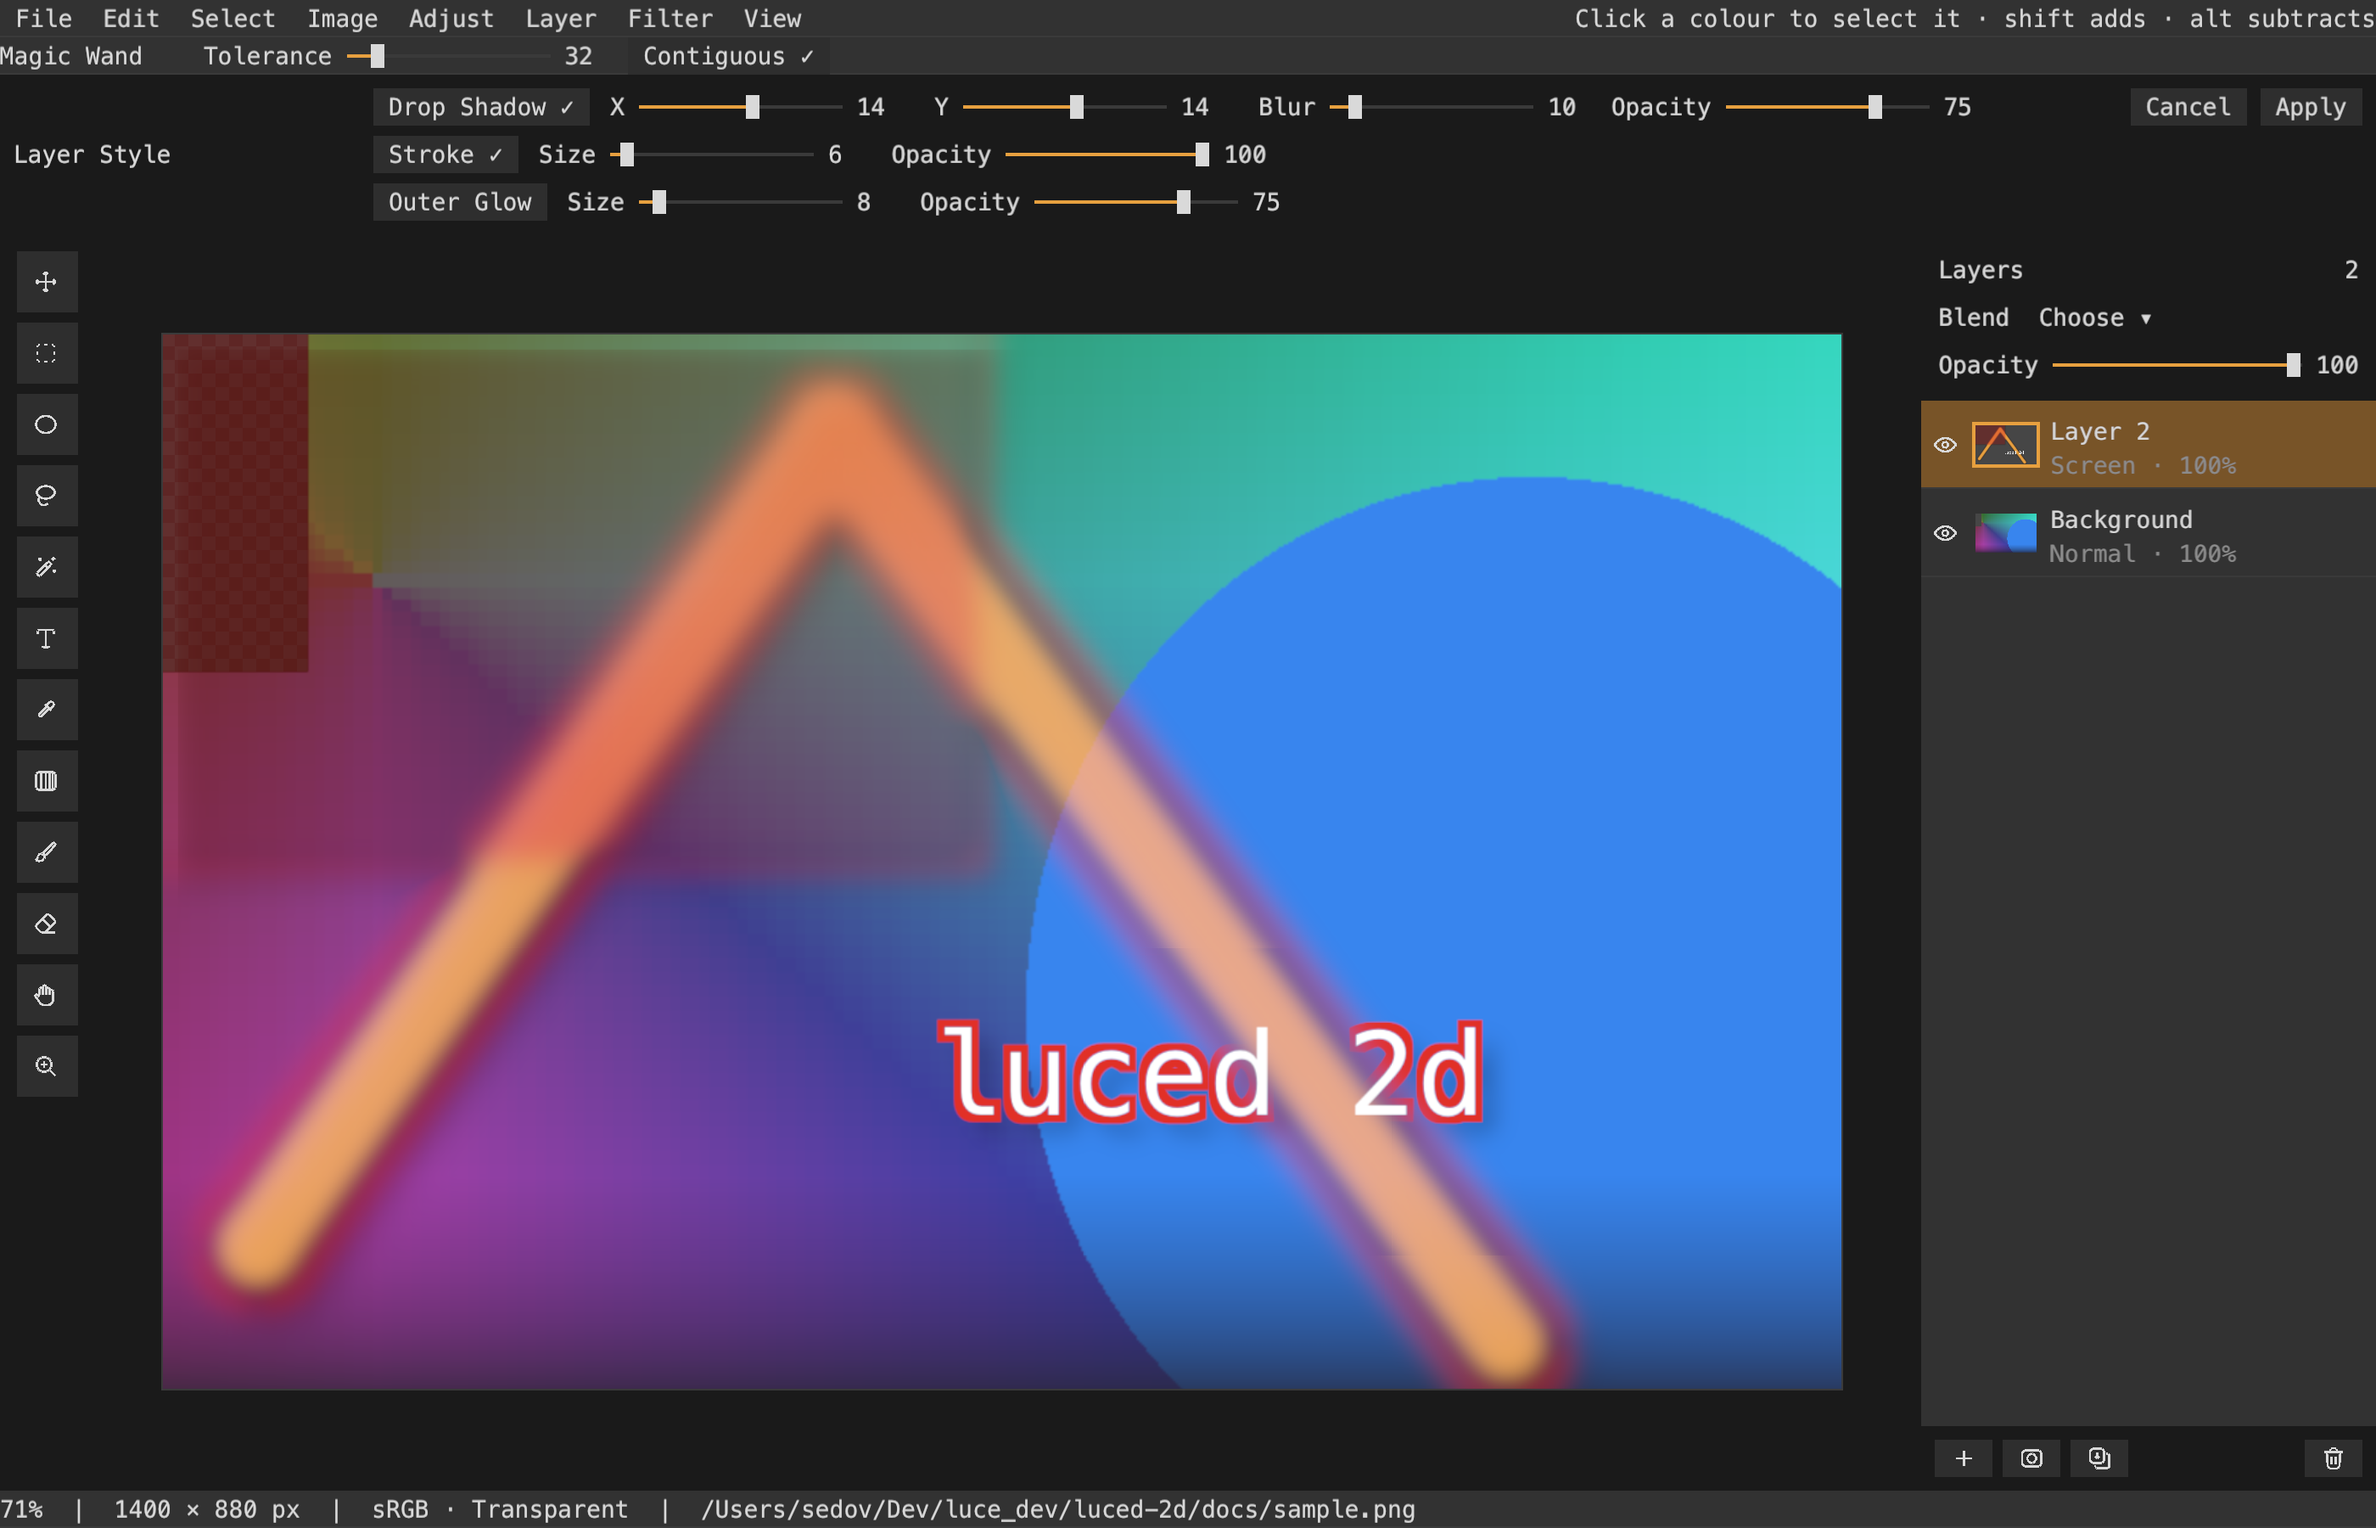
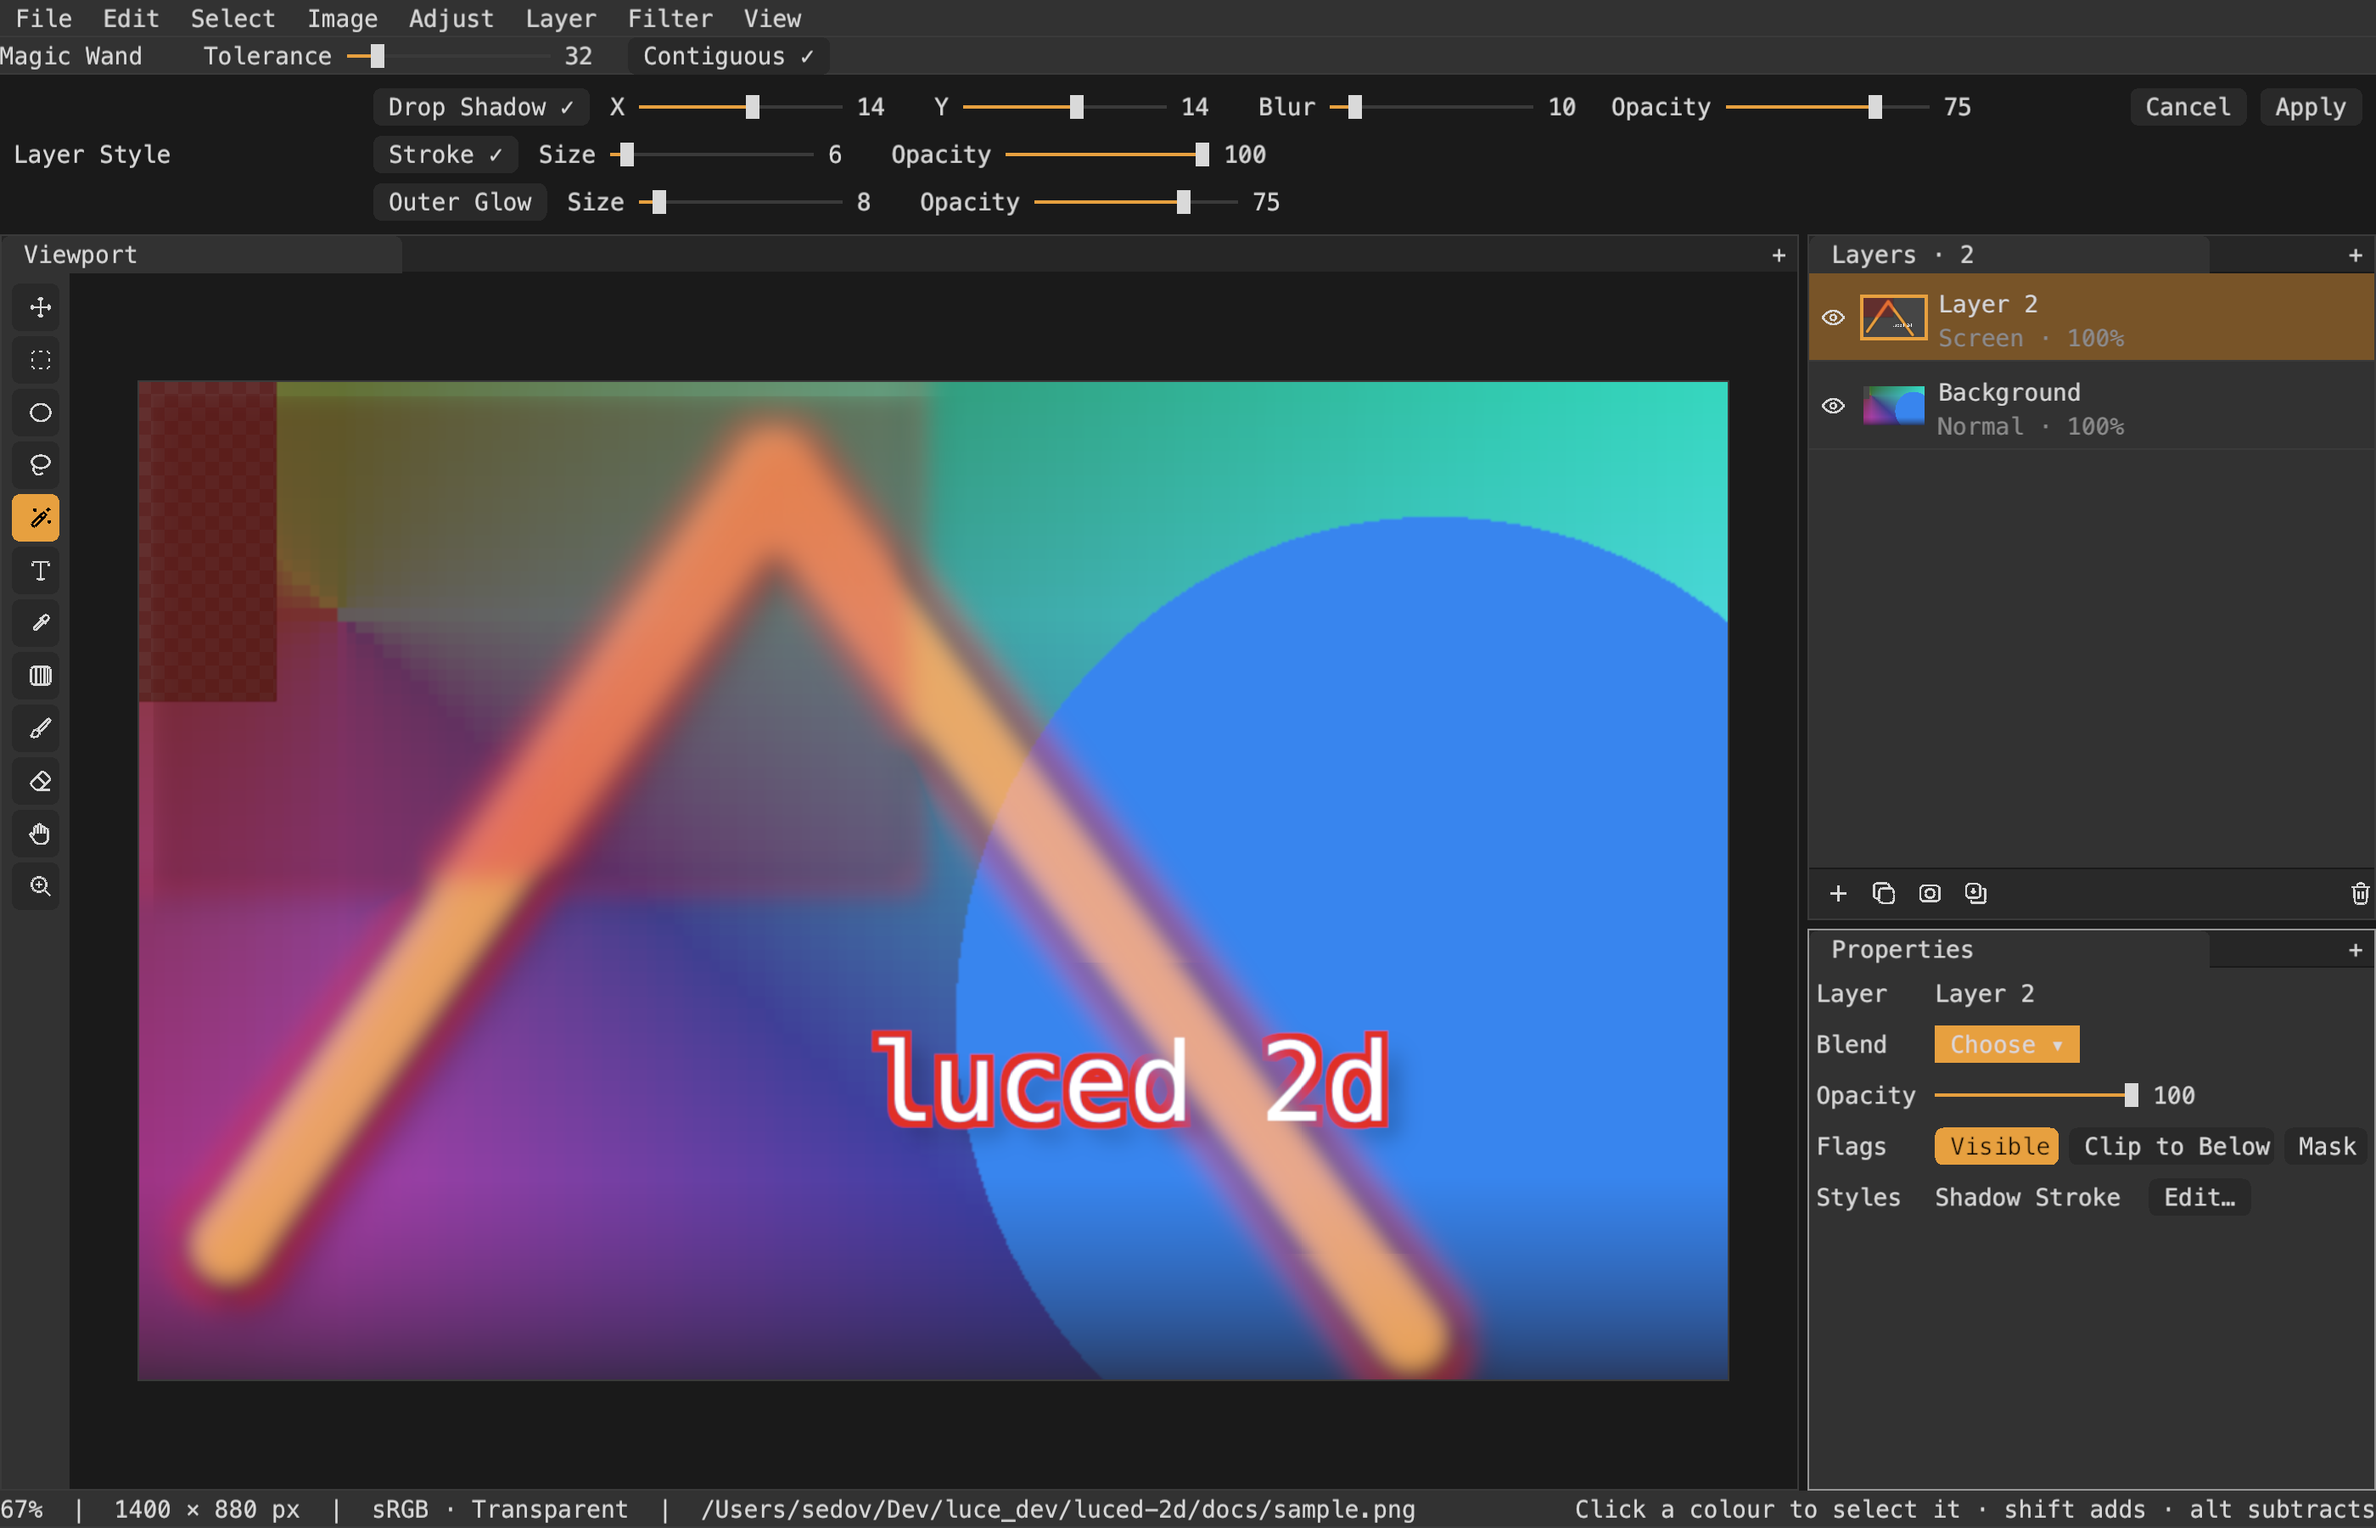
Panes after eleusis: Viewport, Layers with a bottom shelf, Properties; rounded buttons, selected tool in the accent, hints in the status bar
Claude-Session: https://claude.ai/code/session_01KSvf935cywg8wGYHPcyZf9

diff --git a/docs/ELEUSIS_UI.md b/docs/ELEUSIS_UI.md
@@ -1,0 +1,162 @@
+# eleusis UI catalogue
+
+How eleusis-frameworks (`/Users/sedov/Dev/eleusis-frameworks`, Zig) and
+eleusis-layout.2 (`/Users/sedov/Dev/eleusis-layout.2`) build their UI, as read
+from the sources on 2026-09-22, so luce-ui and luced-2d can reproduce it. All
+numbers are UI units (points); double at 2×. Colours are the authored sRGB
+values (the app rotates them to Display-P3 and blends linear-premultiplied).
+
+## Theme
+
+Dark palette (`ui/theme.zig:154-214`), with eleusis-layout.2's overrides
+(`app/theme.zig:50-85`) applied:
+
+| Role | sRGB | Use |
+|---|---|---|
+| window = surface | 50,50,50 `#323232` | chrome and panes alike ("a layout tool's panes ARE the chrome") |
+| tab_strip | 38,38,38 `#262626` | the recess a tab strip sits in; property-pane section headings |
+| backdrop | 26,26,26 `#1A1A1A` | gaps between panes, divider gutters, every structural 1 px rule |
+| surface_raised | 46,46,46 `#2E2E2E` | popover, menu, tooltip-like panels, raised button, table header |
+| surface_sunken | 41,41,41 `#292929` | field well, slider groove, sunken (default) button, **pane bottom toolbar** |
+| border | 58,58,58 `#3A3A3A` | ordinary border; property-row separator |
+| border_focused | 150,150,150 `#969696` | focused border, drawn at 2× width |
+| separator | white α0.10 | hairline between rows / menu sections |
+| text | 217 `#D9D9D9` | primary text |
+| text_muted | 140 `#8C8C8C` | secondary, placeholder, disabled labels, toolbar icons at rest |
+| accent = selection | 231,160,63 `#E7A03F` | one orange for both |
+| text_on_accent | black | 9.5:1 on the orange |
+| selection_inactive | 120,84,40 `#785428` | selected row in an unfocused pane |
+| hover / pressed | white α0.04 / α0.12 | washes composited over the resting fill; no fade |
+| scrim / shadow | black α0.9 / α0.85 | modals |
+| danger / warning | 232,84,74 / 232,172,74 | |
+| scrollbar | 150 α0.55 | overlay thumb |
+| row_stripe | white α0.006 | odd rows |
+
+Metrics (`ui/theme.zig:267-312`): row_height 22, pad 8, gap 6,
+corner_radius 6 (surfaces), corner_radius_small 5 (every control: buttons,
+chips, fields, tabs, row highlights, menu rows, checkboxes), border_width 1
+(2 when focused), text_size 13, input_height 26, icon_size 16, scroll_step 66.
+Disabled = 0.2 opacity on the whole control (fill, border, label). Font: SF Pro
+Text 13 pt, vertically centred by the font box. Icons: monochrome 16-unit
+tiles fitted to the shorter side of their slot (so icon buttons are square).
+
+## Window (eleusis-layout.2)
+
+```
+MENU BAR            h 28   fill window; titles hug text + 2×11 pad; 1 px backdrop rule below
+DOCUMENT TAB STRIP  h 26
+backdrop gap        h 6    (only above the workspace)
+DOCK WORKSPACE             h = win - 54 - 6 - 24
+1 px backdrop
+STATUS BAR          h 24   fill window; pad 10/10; shows the hot control's hint, else document state
+```
+Default 1400 × 900. Default dock: `row(0.74 viewport | 0.26 col(0.24 boards,
+0.40 assets, 0.36 properties))`. The menu bar is a mode: once open, moving
+across titles switches menus. Dropdowns: width 220 (submenus 260), rows 22 with
+pad 10/10, radius 5, hover fill; separators = 5 gap + 1 px `separator`;
+shortcut hints right-aligned in text_muted; disabled rows at 0.2 opacity.
+
+**There are no tooltips**: every control declares a one-line hint and the
+status bar shows the hot one (a disabled control still reports its hint).
+
+## Panes (`dock/root.zig`)
+
+Tree of `area` (tab group: pane types + active) and n-ary `split` (axis,
+fractions summing to 1). Metrics as the app sets them: header 26, divider 6
+(grab band 6 + 2×9), min_area 120. Divider = a 6-unit `backdrop` gutter, no
+centre line; resize cursors; dividers declared last so they win edges.
+Drop zones: outer 28 % of a side = that edge (half-rect preview), inner =
+centre (join as tab); preview fill selection α0.28 + 2-unit accent border, no
+rounding; edge drop makes a 50/50 split; a pane type lives in at most one area
+(dock = move). Layout persisted as one line in prefs.
+
+### Header = the tab strip (the only header a pane has)
+Height 26, fill `tab_strip`, no left pad, right pad 6, a 1 px `backdrop` rule
+beneath (this line tops every pane). Tab: hug width 40..220, pad 10/10, spacing
+4, corners **{5,5,0,0}**, fill = `surface` when active (tab and pane read as
+one), pressed/hover wash otherwise, transparent at rest; icon 14×14 (text /
+text_muted), title elided tail (min 34), × close 9×9 in a 14 slot for closable
+tabs. `+` button 30 wide with a 16×16 icon, muted → text on hover. Clicks are
+reported and applied after the layout pass, never during declaration.
+
+### Bottom toolbar of a pane (`app/panes.zig:1314-1365`)
+```
+1 px rule, fill backdrop (#1A1A1A)          ← a DARK line, not the light separator
+shelf: h 30 fixed, fill surface_sunken (#292929), pad left 6 / right 6, cross centre
+       icon buttons 25×25, style plain (no resting fill), icon text_muted, zero pad
+       spacer() pushes destructive actions (trash) to the far right
+```
+Runs edge to edge (the pane has no padding; the list above carries pad-top 8).
+"A toolbar above a list reads as a header for it; below it reads as acting ON
+it." Contents: Assets = add, swatch, folder, duplicate, …, trash; Boards =
+new, duplicate, print, …, trash (disabled when one board). The Script pane's
+bar differs: fill `window`, text buttons (Run raised+bordered, Open…/Save…
+sunken) h 22.
+
+### Properties pane (`app/panes.zig:1561-1681`)
+Rows: h 22, pad left 8 / right 16 (scrollbar), label column fixed 50 in
+text_muted, gap 6, value grows (read-only: trailing-aligned, head-elided, in
+text). Between rows a 1-unit `border` rule. Wells inside rows: radius 0 and no
+border (rows touch; a rounded corner between flush wells is a notch). Section
+heading: 6 gap above, band h 22 pad 8/16 fill `tab_strip`, label text_muted.
+Sections: name row, Transform (X, Y, Scale, Rotation, Opacity as drag
+scrubbers), Crop, Color (26×14 swatch with 1 px border), Text (label column
+72, rows 30), Info (read-only). Empty selection shows an empty pane. Content
+height is counted (rows × 23), not measured.
+
+## Controls (`ui/*.zig`)
+
+- **Button**: hug width, grows to row height, pad 6/6 unless set, radius 5,
+  border 1 only when `bordered` or focused (`border_focused`). Styles: sunken
+  (default, surface_sunken), raised (surface_raised), plain (no resting fill),
+  selected (accent fill + text_on_accent). Hover/pressed = white 4 % / 12 %
+  washes over the resting fill; disabled = 0.2 opacity, no hover. Icon *or*
+  text, never both. "Checked" = style selected (active tool, open menu title,
+  Grid/Snap toggles). Sizes in the app: pane toolbar 25, tool rails 28,
+  small property buttons 20, modal close 20×18.
+- **Checkbox**: box 14×14 radius 5, on = accent fill + accent border, tick
+  glyph in text_on_accent; label toggles it; row h 22, spacing 6.
+- **Slider**: hit height 18, groove 4 (radius 2) surface_sunken, travelled
+  part accent, knob 12 (radius 6) surface_raised with border; absolute
+  positioning (press anywhere), arrows 1 %, shift ×10.
+- **Number scrubber**: h 22, drag to change (threshold 2), click to type,
+  ⌘-click resets; began/ended bracket one undo step.
+- **Text field**: h 26 forced, fill surface_sunken always, border 1 → 2 on
+  focus (border_focused), radius 5, text inset 6, caret 1 unit blinking 530 ms,
+  commit-on-blur or cancel-on-blur policies.
+- **Select**: button h 26 fill surface_raised, chevron 12 slot, radius 5;
+  popup fill surface_raised, border 1, radius 6, pad 4, rows 26 with pad 8,
+  current value in selection_inactive; flips above when out of room.
+- **Table/list**: rows 22 virtualised; fill priority selected+focused
+  selection → selected+unfocused selection_inactive → hover → odd row
+  stripe; row radius 5 by default, **0 in the app's lists**; header row
+  surface_raised; toggles (eye/lock/chevron) 20 wide, up to 4, drawn as real
+  glyphs when off; indentation 20 per missing control column, 10 per tree
+  depth; drop indicator 2-unit accent line; autoscroll while dragging.
+- **Scrollbar**: overlay, 5 wide inset 2, thumb ≥ 24, radius 2.5, fill
+  scrollbar → text_muted while dragged.
+- **Separators**: structural rules are 1 px `backdrop`; hairlines between
+  rows/menu sections are `separator`; property rows use `border`.
+- **Modal**: surface_raised, border 1, radius 6, title bar h 26 fill window
+  with a 1 px backdrop rule, body pad 16, scrim α0.9 fading in 120 ms.
+
+## Viewport pane
+Three reserved bands inset the canvas (never painted over it): left tool rail
+40 wide (column, pad-top 8, spacing 3, fill window, 1 px backdrop rule on the
+canvas edge, ten 28×28 buttons — active tool `selected` orange with black
+icon, others sunken; every button's hint names the action and its shortcut),
+right align rail 40 wide (mirror), bottom bar 34 high (fill surface, 1 px
+backdrop rule on top, groups split by 2-wide `separator` rules with 6 gaps:
+board size wells, printer, Grid/Snap toggles, then display selects, camera
+readout, zoom %). The bar drops labels below 700 wide, the ODT select below
+660, the display select below 540.
+
+## Traps
+1. surface == window == #323232; hierarchy comes from tab_strip 38,
+   surface_sunken 41 and backdrop 26.
+2. Every structural edge is a 1 px backdrop line, darker than its surroundings.
+3. Rounding: 5 for controls, 6 for surfaces; dock tabs {5,5,0,0}; property
+   wells and the app's list rows 0.
+4. Disabled = 0.2 opacity on the whole control.
+5. Hover/pressed are washes over the resting fill; nothing fades.
+6. No tooltips; the status bar is the tooltip.

diff --git a/README.md b/README.md
@@ -71,8 +71,11 @@ python3 tools/preview.py   # macOS: captures a real Metal frame into docs/previe
 - `src/view.luc`: the canvas widget: checkerboard, the document, pan and zoom.
 - `src/actions.luc`: one `Command` per action, as in luced; menus, the tool
   rail and shortcuts present the same instances, enabled by document state.
-- `src/panels.luc`: the window after Compositor's: menu bar, contextual tool
-  header, adjust bar, tool rail, layers panel, status line and the text prompt.
+- `src/panels.luc`: the window: menu bar, contextual tool header, adjust bar,
+  then a dock of panes after eleusis-layout (see `docs/ELEUSIS_UI.md`): the
+  Viewport with its tool rail, Layers with its actions on a shelf at the
+  bottom, Properties for the selected layer; a status bar that shows the hot
+  control's hint; and the text prompt.
 - `src/layers.luc`: the layer list with thumbnails, masks and clipping.
 - `src/theme.luc`: the look, eleusis-layout's greys and orange.
 - `src/app.luc`: application composition.
